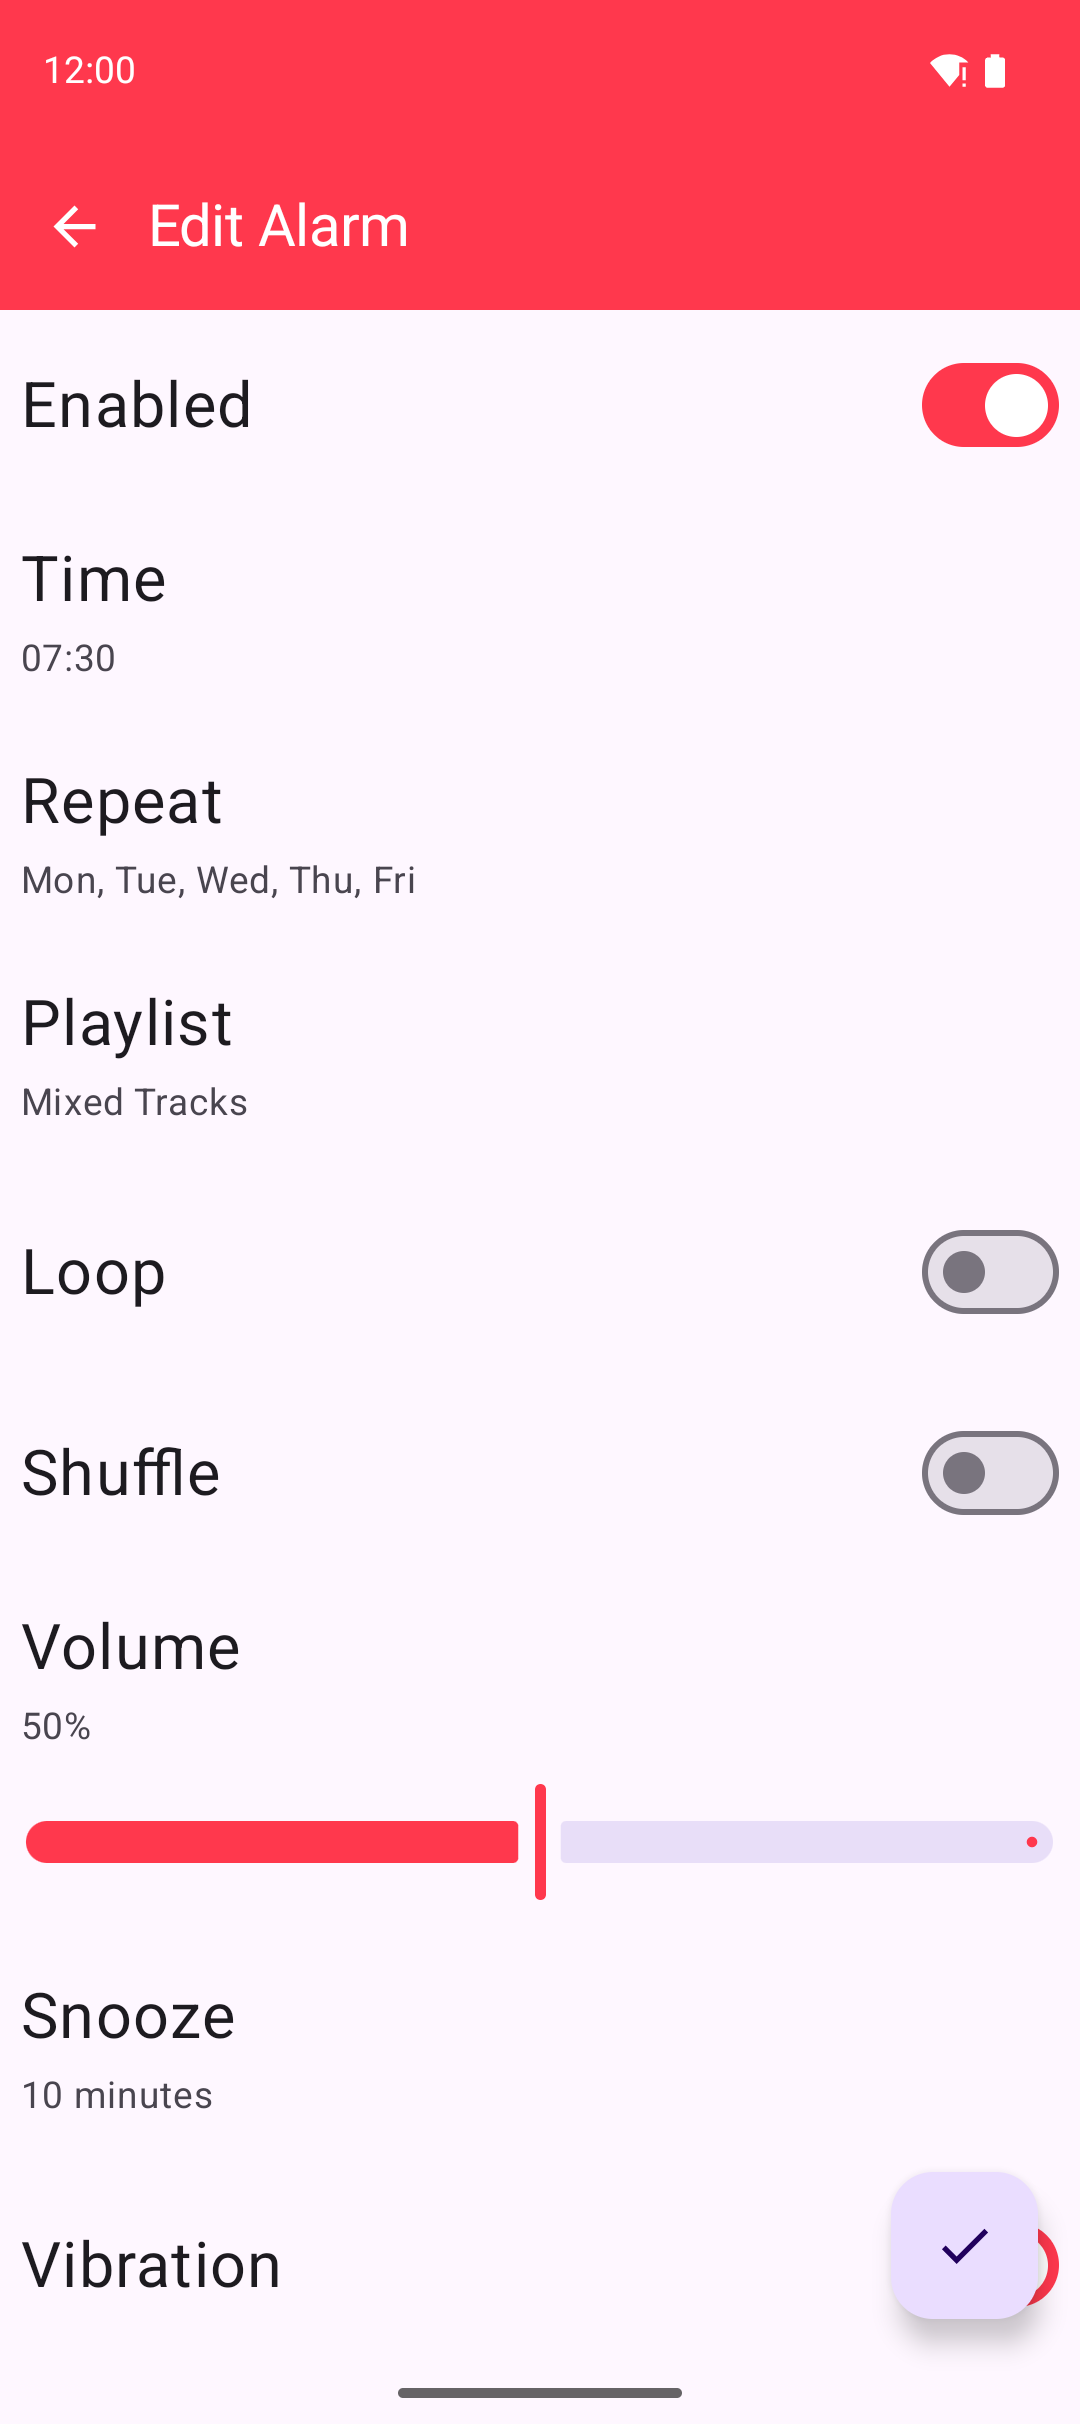
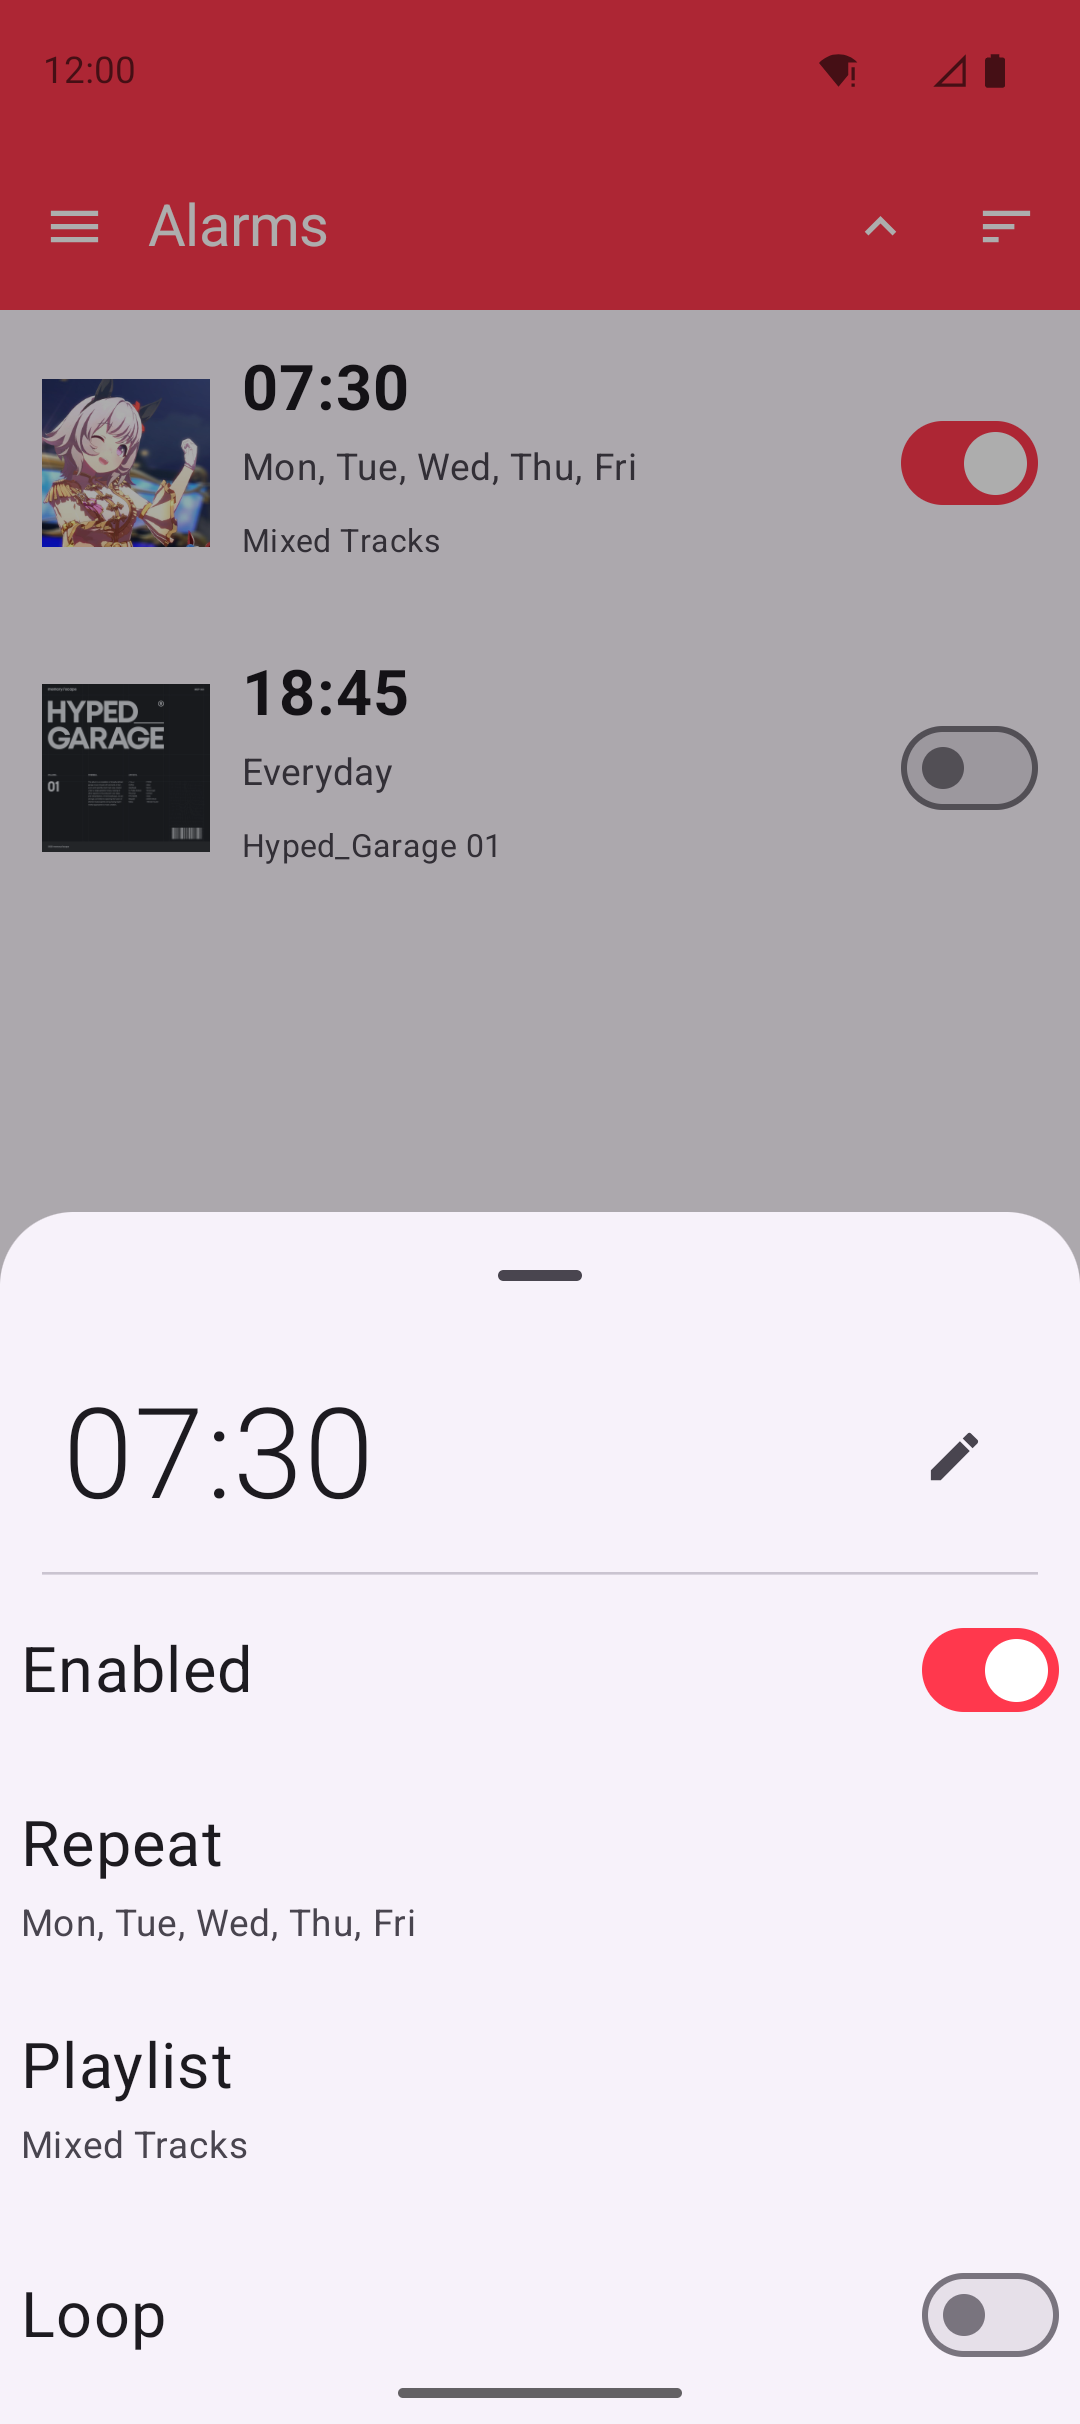
fix(test): update screenshot test for bottom sheet alarm settings
Use Espresso.pressBack() instead of Back button click to close the
alarm settings bottom sheet, matching the UI change from separate
screen to bottom sheet.

🤖 Generated with [Claude Code](https://claude.com/claude-code)

diff --git a/app/src/androidTest/kotlin/net/turtton/ytalarm/TakeMainActivityScreenshots.kt b/app/src/androidTest/kotlin/net/turtton/ytalarm/TakeMainActivityScreenshots.kt
@@ -118,8 +118,8 @@ class TakeMainActivityScreenshots {
         waitForImagesAndIdle()
         Screengrab.screenshot("06-alarmSettings")
 
-        // 戻る
-        composeTestRule.onNodeWithContentDescription("Back").performClick()
+        // ボトムシートを閉じる（システム戻るボタン使用）
+        Espresso.pressBack()
         waitForImagesAndIdle()
 
         // 07-drawer: ナビゲーションドロワー
